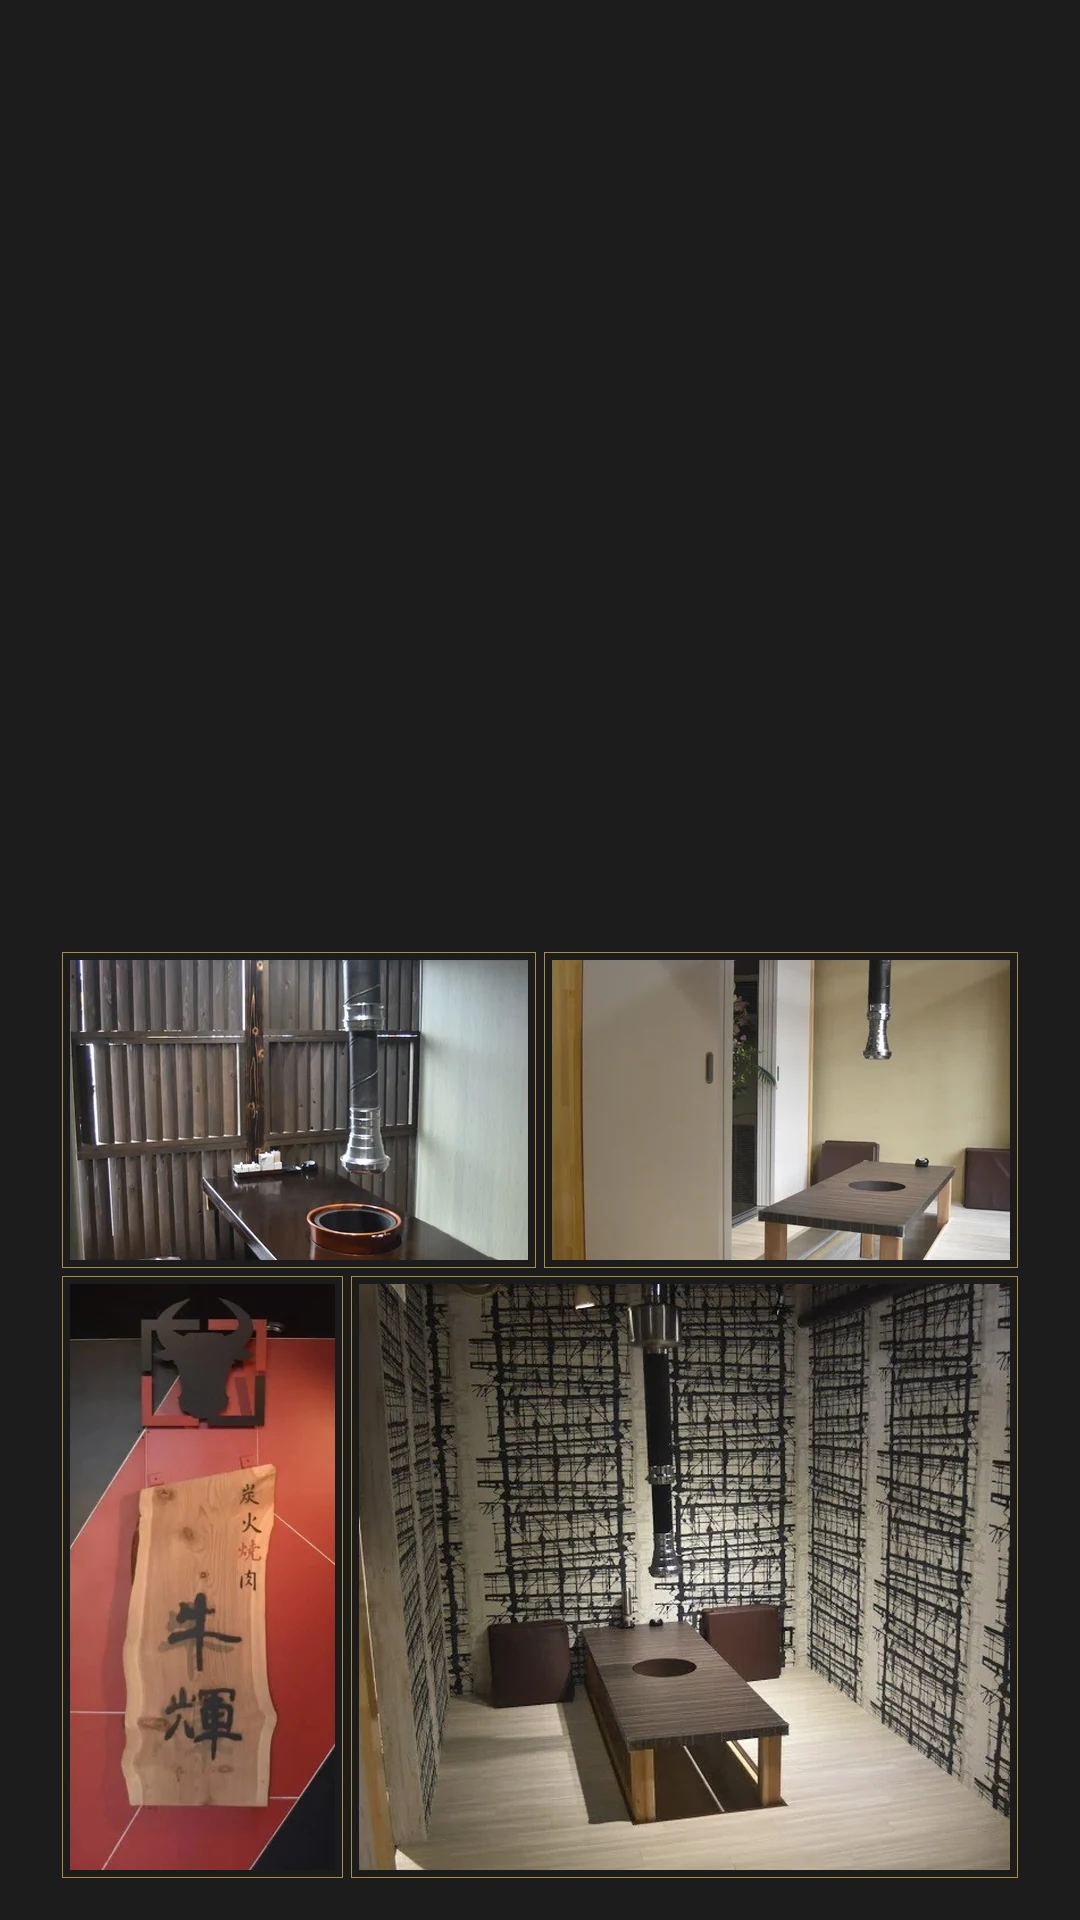
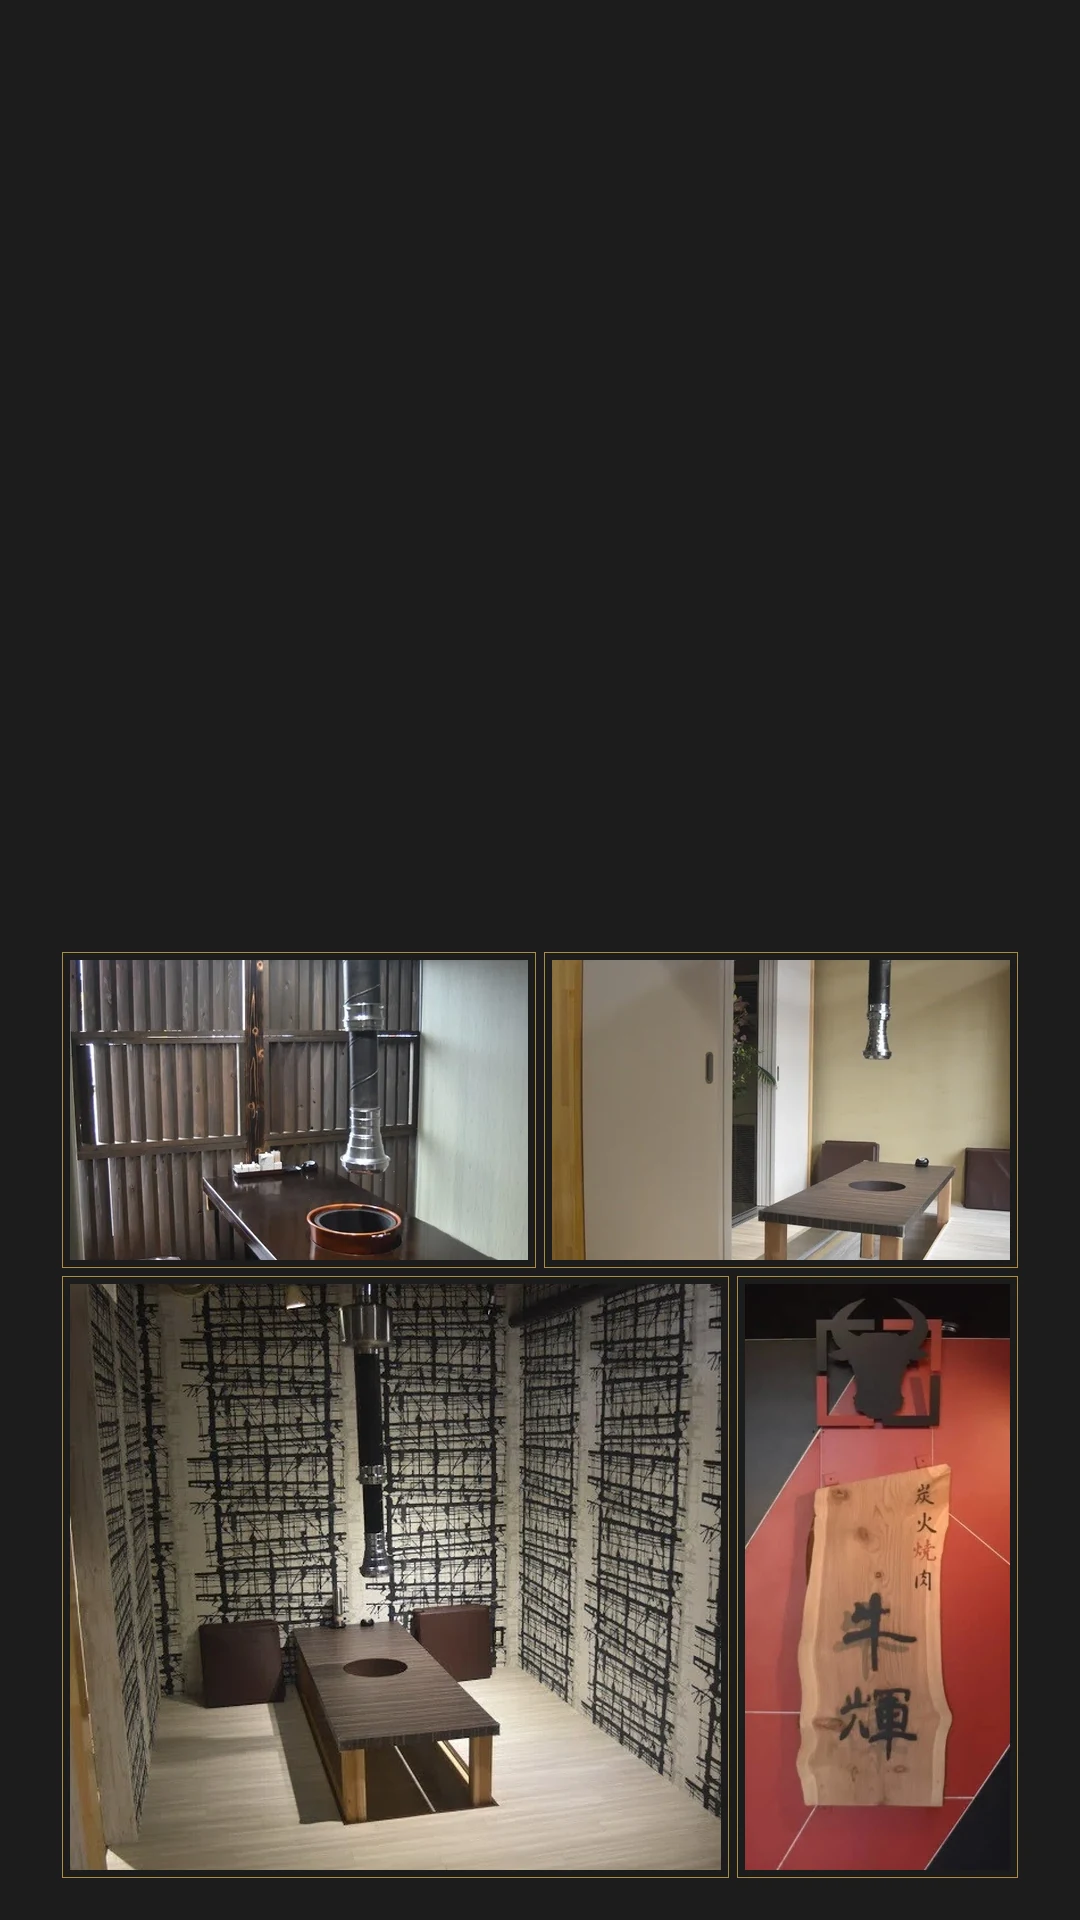
トップのスライド順を変更し、コラージュの看板を右側に配置
順番: 肉盛り → 店内 → 盛り合わせ → 看板+個室コラージュ。
コラージュは縦長の看板をPC・スマホとも右側へ移動。

Changed region(s): [[0.0611, 0.6562, 0.9472, 1.0]]

diff --git a/index.html b/index.html
@@ -30,18 +30,18 @@
 <header class="hero">
   <div class="hero__slides">
     <div class="hero__slide is-active">
-      <img class="hero__bg" src="assets/img/hero-moriawase.webp?v=20260925a" alt="牛輝の焼肉盛り合わせ（上カルビ・赤身・ハラミ・塩タン）">
+      <img class="hero__bg" src="assets/img/concept-meat.webp?v=20261010a" alt="上ハラミと特上タンの盛り合わせ">
     </div>
     <div class="hero__slide">
       <img class="hero__bg" src="assets/img/interior-counter.webp?v=20261010a" alt="炭火焼肉 牛輝の店内（カウンター席）" decoding="async">
     </div>
     <div class="hero__slide">
-      <img class="hero__bg" src="assets/img/concept-meat.webp?v=20261010a" alt="上ハラミと特上タンの盛り合わせ" decoding="async">
+      <img class="hero__bg" src="assets/img/hero-moriawase.webp?v=20260925a" alt="牛輝の焼肉盛り合わせ（上カルビ・赤身・ハラミ・塩タン）" decoding="async">
     </div>
     <div class="hero__slide">
       <picture>
-        <source media="(max-width: 767px)" srcset="assets/img/hero-rooms-tall.webp?v=20261010b">
-        <img class="hero__bg" src="assets/img/hero-rooms-wide.webp?v=20261010c" alt="牛輝の木製看板と、個室の座敷・テーブル席" decoding="async">
+        <source media="(max-width: 767px)" srcset="assets/img/hero-rooms-tall.webp?v=20261011a">
+        <img class="hero__bg" src="assets/img/hero-rooms-wide.webp?v=20261011a" alt="牛輝の木製看板と、個室の座敷・テーブル席" decoding="async">
       </picture>
     </div>
   </div>

diff --git a/design.md b/design.md
@@ -379,3 +379,4 @@ Instagram投稿からの推測ではなく、**実際の店内メニュー表（
   - トップ画像を4枚のスライドに変更（フェード切替・6秒自動送り・下部中央に金色の細線ドット。ドットはタップ領域44×44px）。1枚目＝従来のトップ（盛り合わせ）、2枚目＝店内カウンター席、3枚目＝上ハラミ・特上タンの肉盛り（ユーザー添付の1・2枚目）、4枚目＝添付3〜6枚目（木製看板＋個室3室）を1枚にまとめたコラージュ。`prefers-reduced-motion`では自動送りを停止し、ドット操作のみ。JSは`script.js`に追加（スライドが無いB・Cでは何もしない）。
   - コラージュ（`hero-rooms-wide.webp` 1920×1080／`hero-rooms-tall.webp` 1080×1920、スマホは`<picture>`で切替）：黒背景＋金のヘアライン枠。写真は低解像度（個室3枚は573px）のため拡大は最大約1.2倍に抑制。ロゴ・電話ボタン・縦書き文字が載る領域を避けて配置（PCは右側に集約、スマホは上部を空ける）。生成は`scripts/make_hero_collage.py`。当初はCodexへ依頼したが、Codex側が読み取り専用サンドボックスで画像を書き出せず（`--write`指定でも不可）、同じ指示内容でPillowにより自作した。
   - ヒーローの高さを「画面高−ヘッダー」（PCは128px、スマホは184px、下限480〜520px）に変更。従来の`100vh`ではヘッダー分だけ下部が最初の画面からはみ出し、スマホではドットとSCROLL表示が見えなかったため。
+- 2026-10-11：トップのスライド順を変更（ユーザー指定「3枚目、2枚目、1枚目、4枚目」）。旧3枚目（上ハラミ・特上タンの肉盛り）→店内カウンター席→旧1枚目（焼肉盛り合わせ）→看板＋個室のコラージュの順。最初に表示されるのは肉盛りの写真になる。あわせて、コラージュ（4枚目）の縦長の看板をPC・スマホとも右側へ移動（個室3枚を左、看板を右）。画像のキャッシュ回避用に`?v=20261011a`へ更新。
